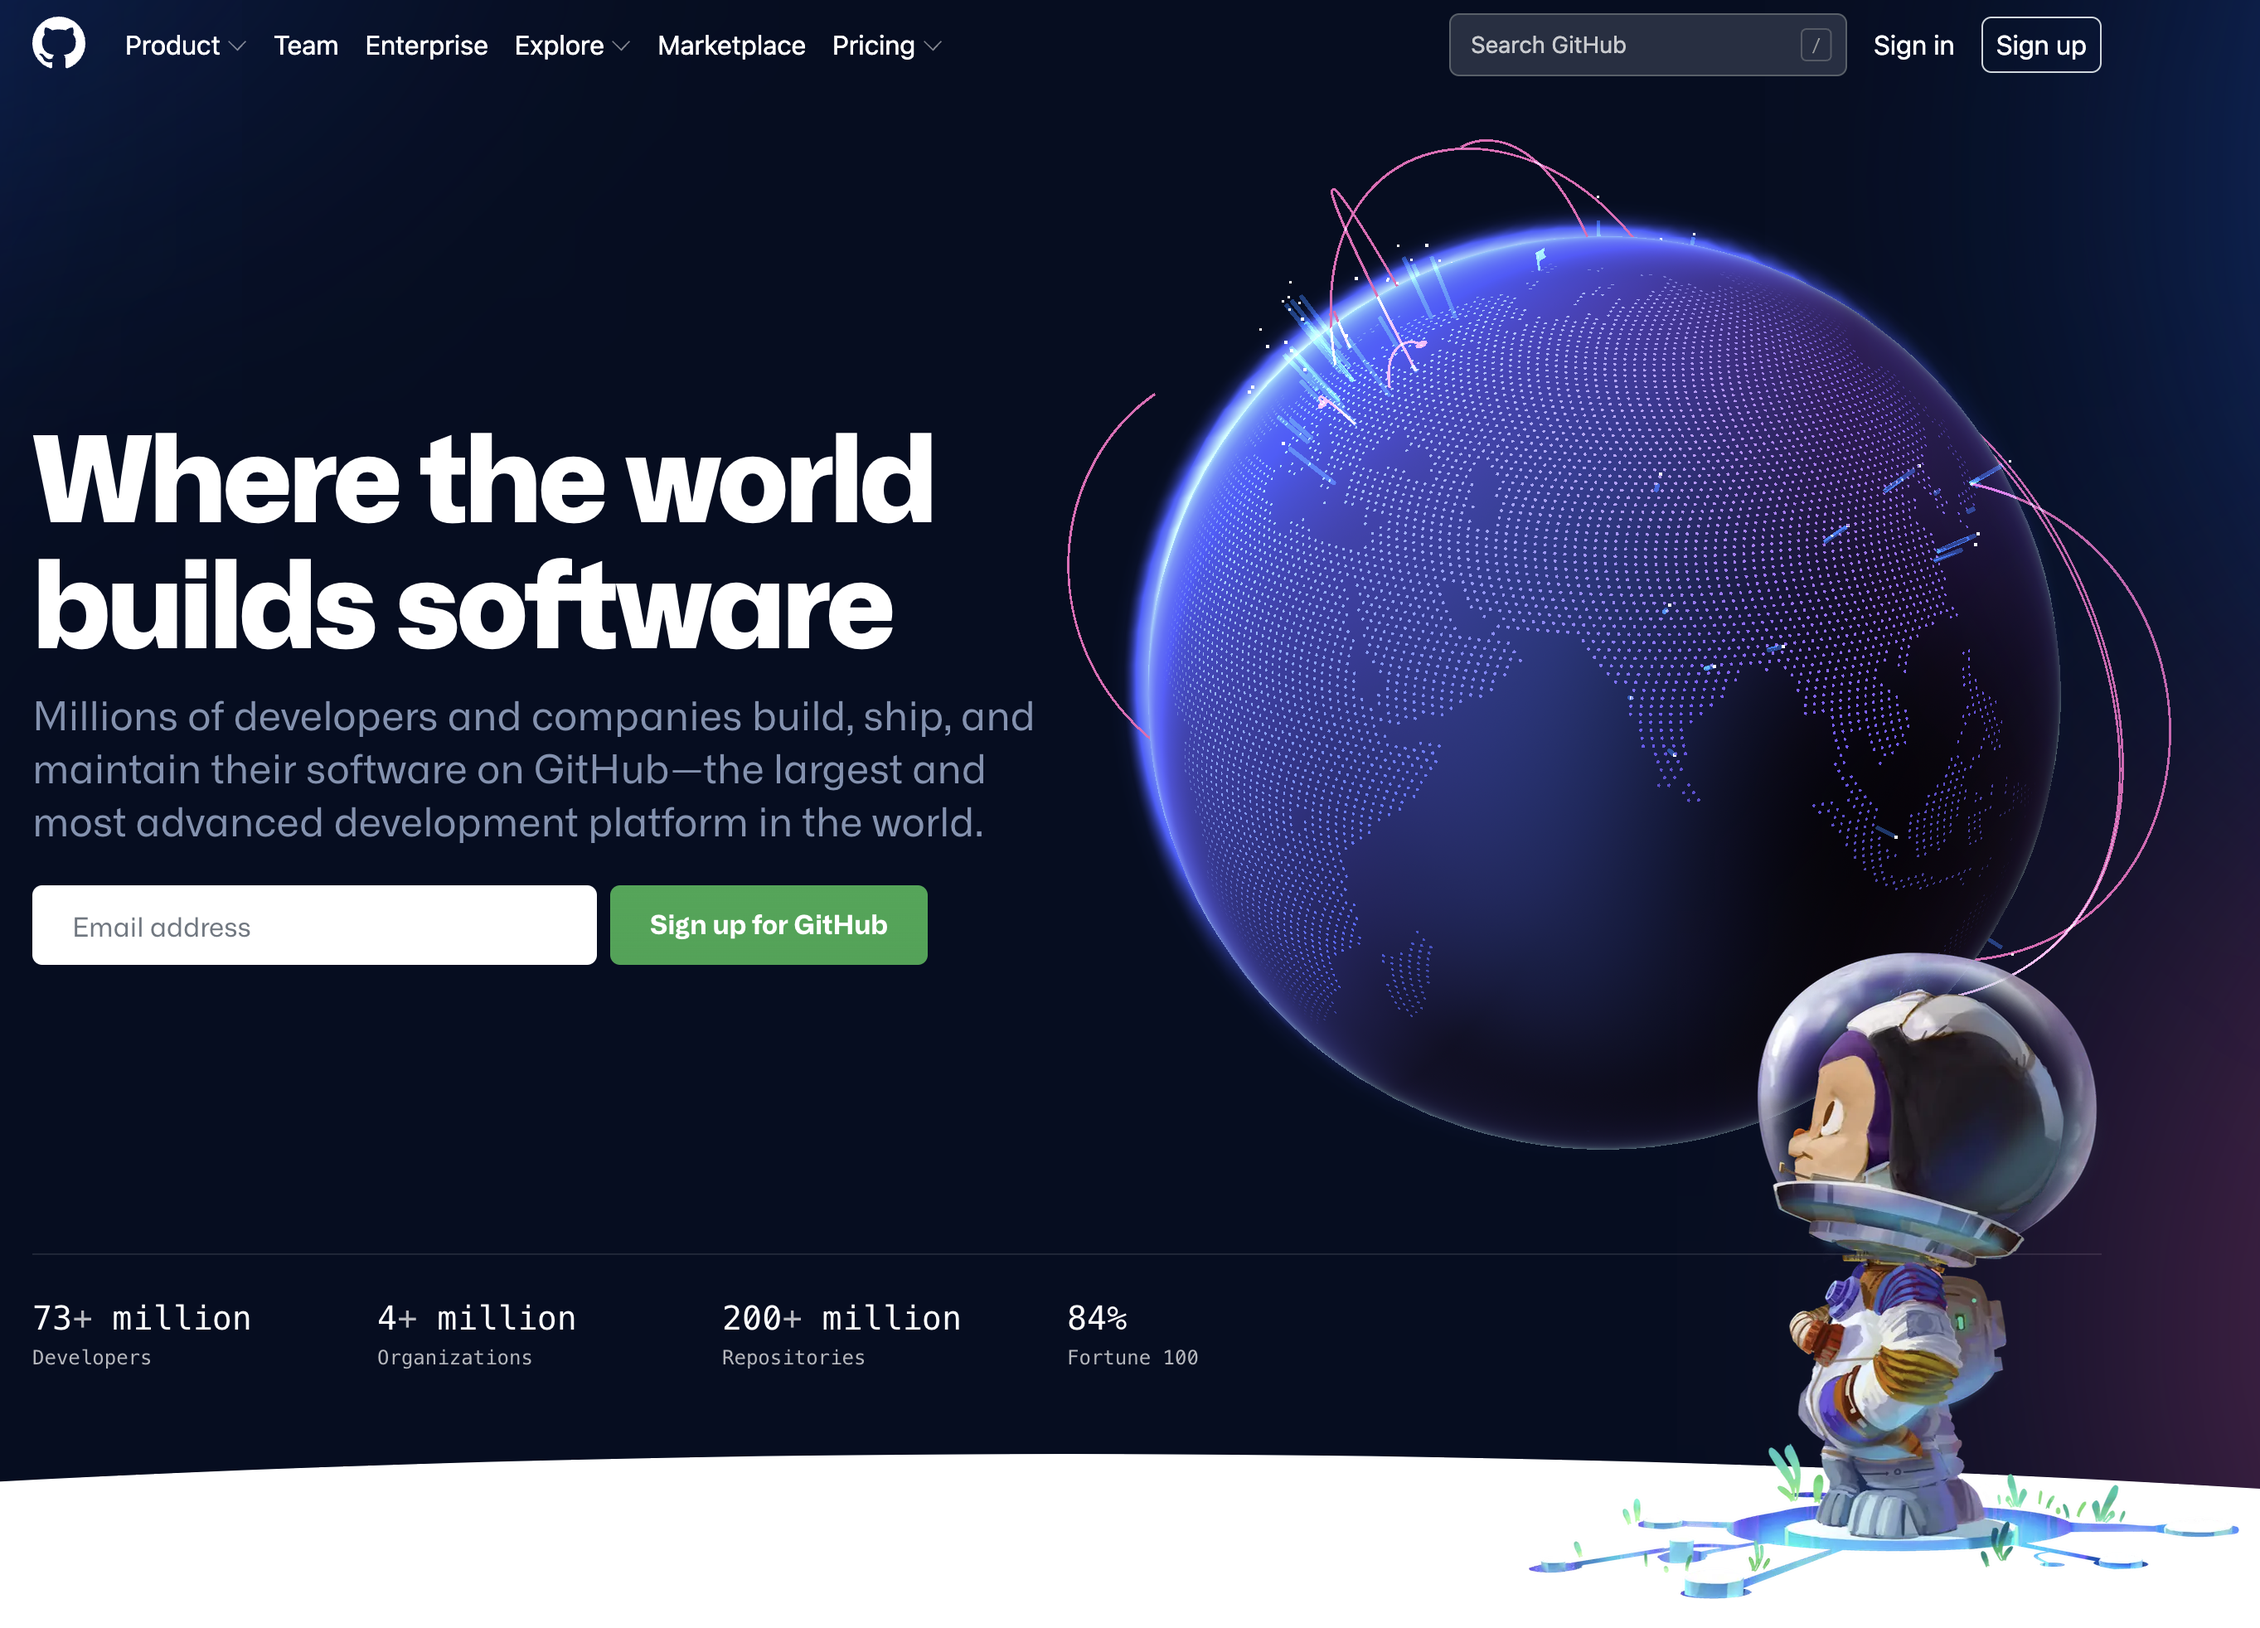
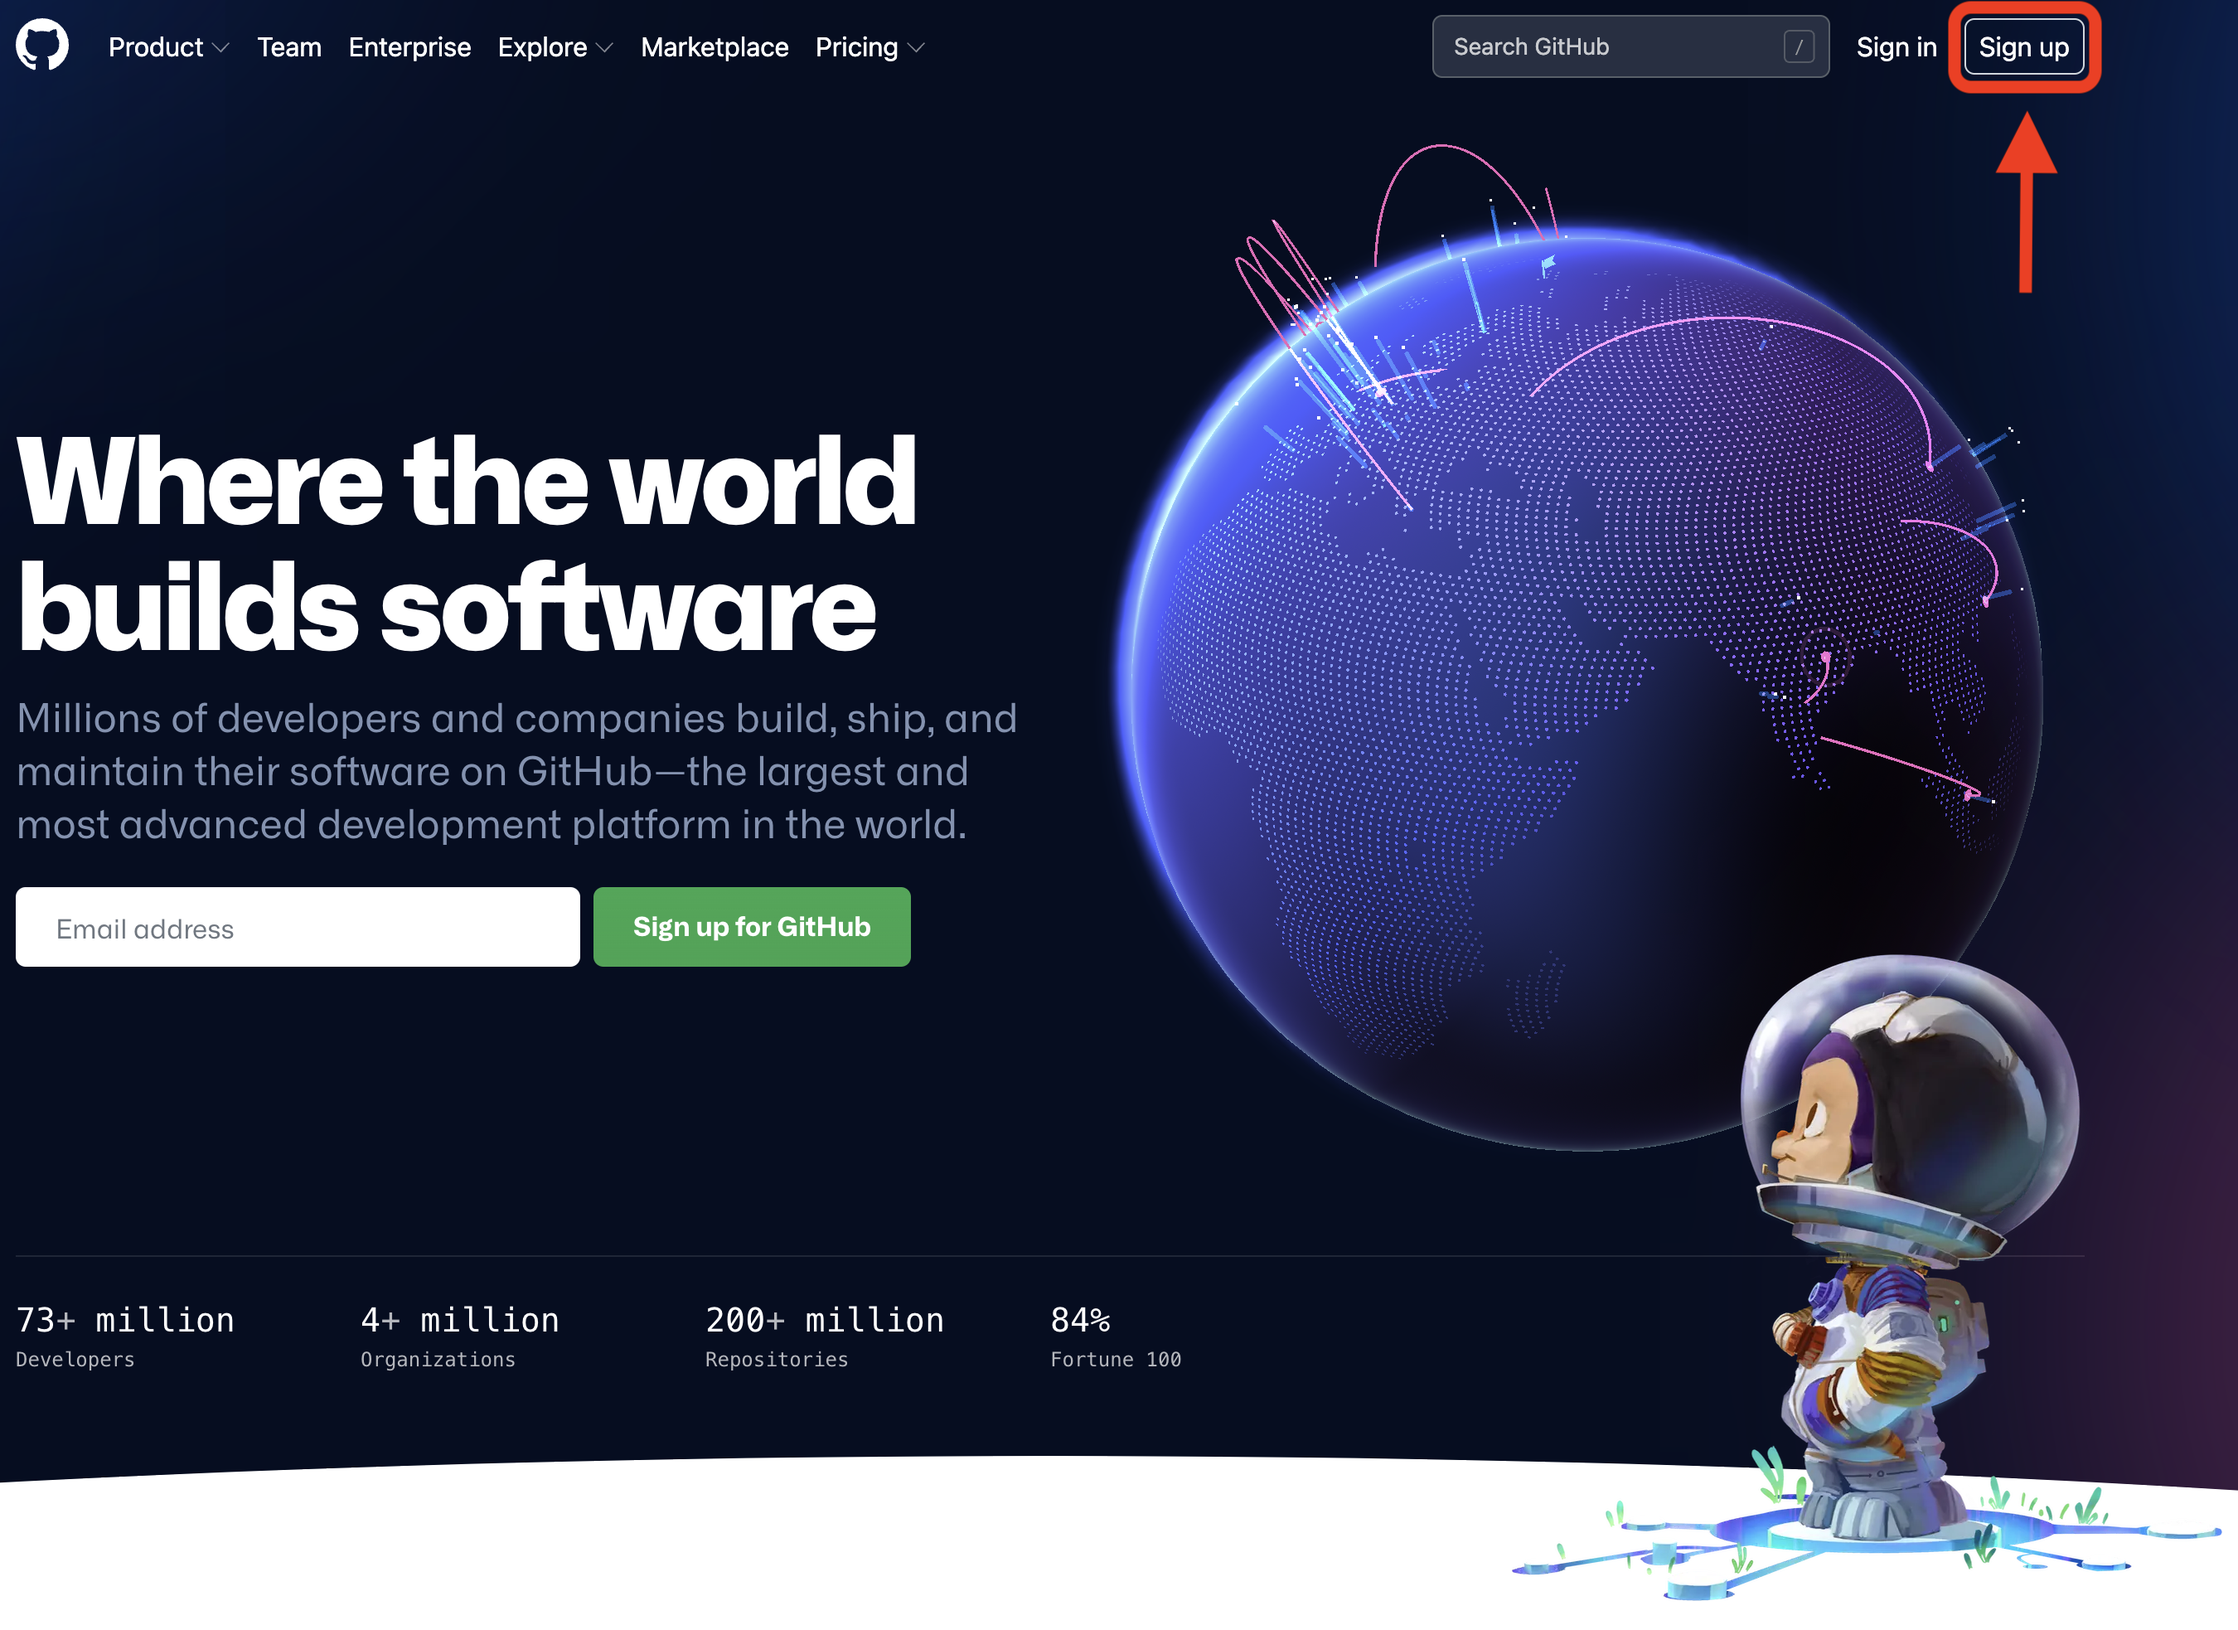
(temp) add post make github.io blog

diff --git a/_posts/2022-03-13-GitHub.io-블로그-만들기.md b/_posts/2022-03-13-GitHub.io-블로그-만들기.md
@@ -11,12 +11,8 @@ img_path: /assets/img/posts/2022-03-13-GitHub.io-블로그-만들기
 ## 1. GitHub 계정 만들기
 
 
-[https://github.com](https://github.com)  
-위 주소로 이동 후 Sign up을 눌러서 회원가입을 시작한다  
+> [https://github.com](https://github.com) 
+
+위 주소로 이동 후 맨 위 오른쪽에 ___[Sign up]___ 이 있다  
+___[Sign up]___ 을 눌러서 회원가입을 시작한다  
 ![github-image](/github-image.png)
-
-
-## 2. GitHub 계정 만들기
-## 3. GitHub 계정 만들기
-## 4. GitHub 계정 만들기
-## 5. GitHub 계정 만들기
